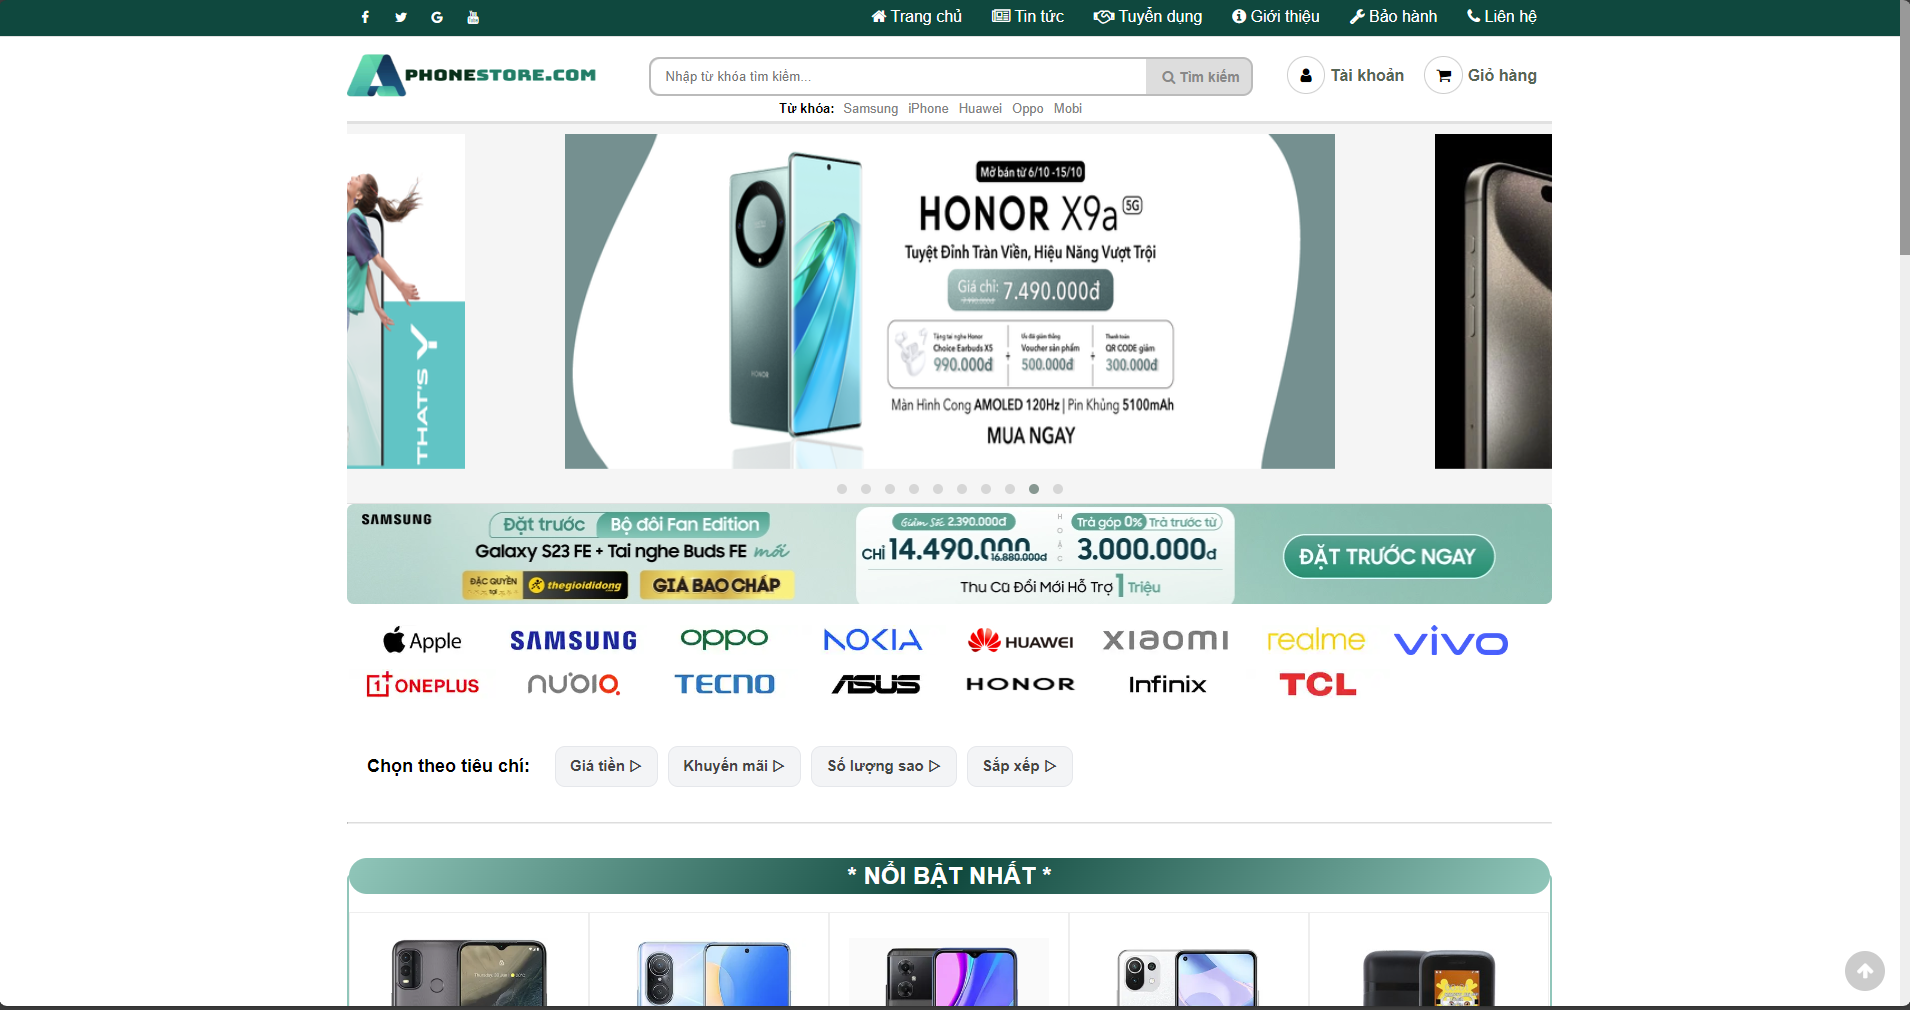
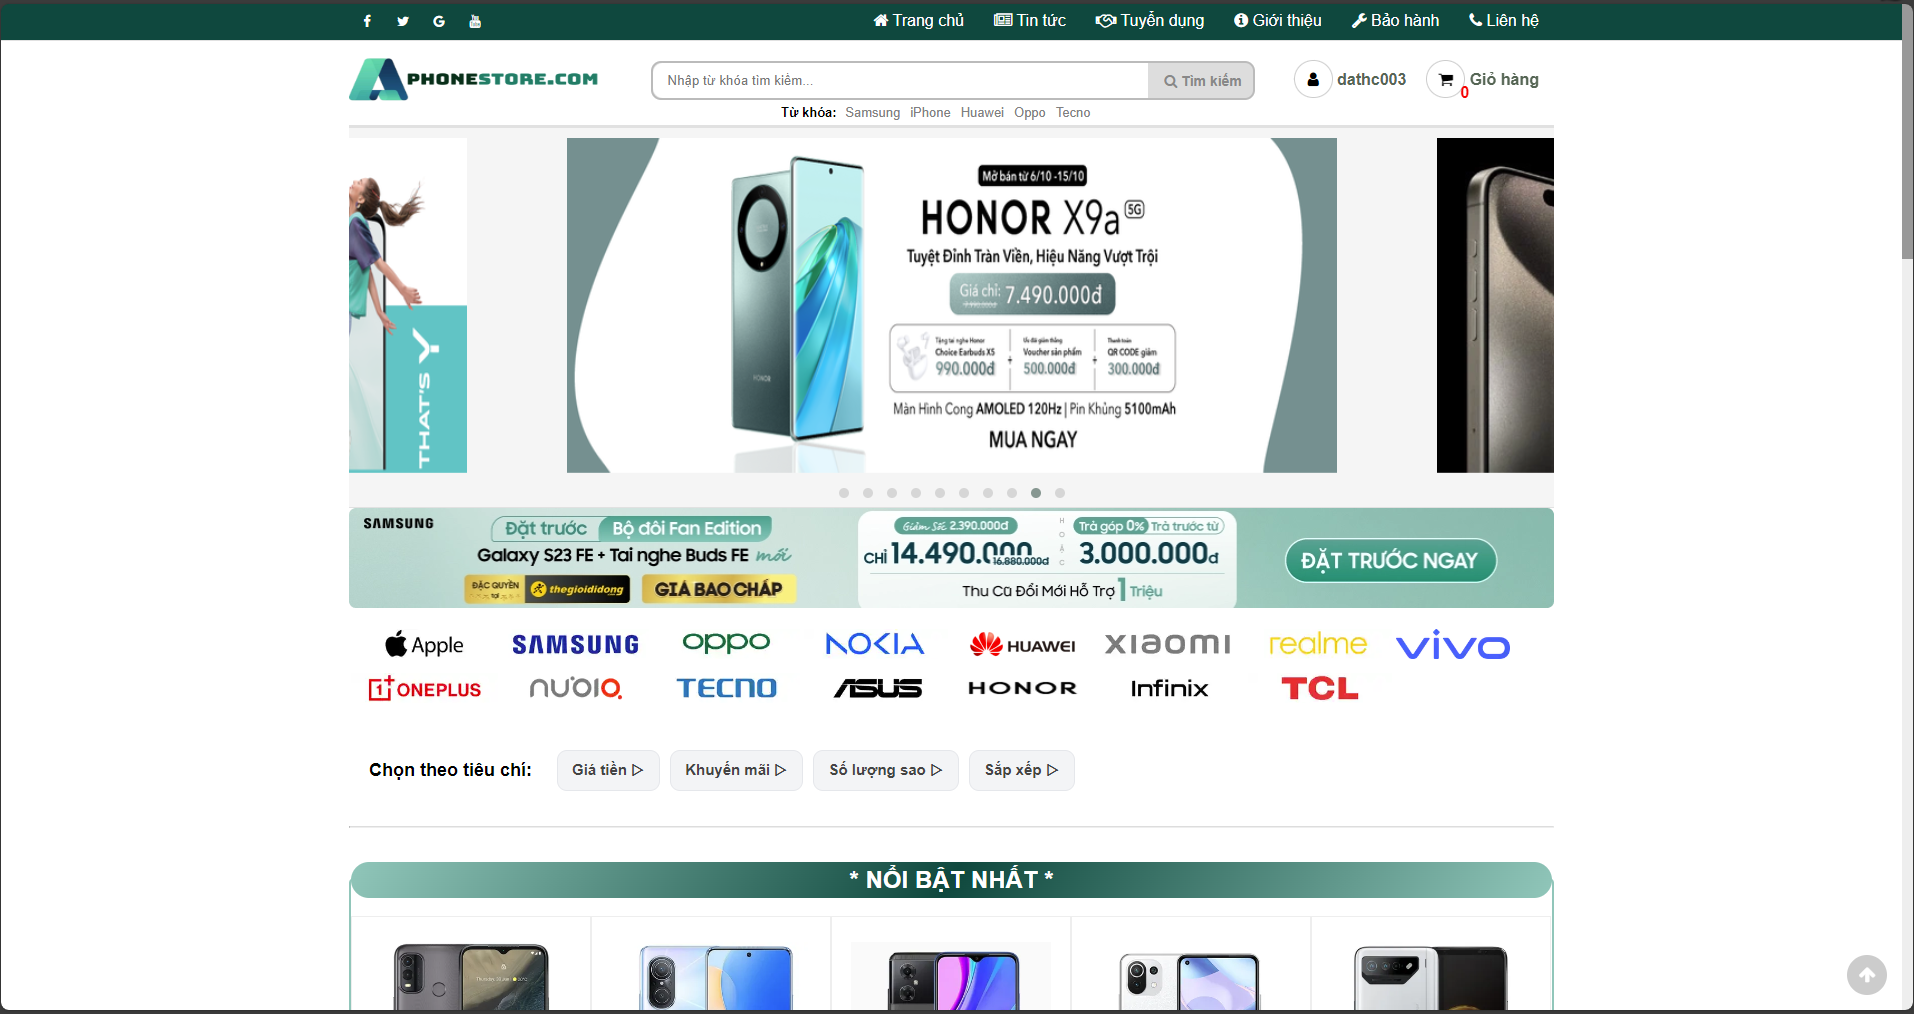
DuAn_Web

diff --git a/js/chitietsanpham.js b/js/chitietsanpham.js
@@ -6,7 +6,7 @@ window.onload = function () {
     khoiTao();
 
     // thêm tags (từ khóa) vào khung tìm kiếm
-    var tags = ["Samsung", "iPhone", "Huawei", "Oppo", "Mobi"];
+    var tags = ["Samsung", "iPhone", "Huawei", "Oppo", "Tecno"];
     for (var t of tags) addTags(t, "index.html?search=" + t, true);
 
     phanTich_URL_chiTietSanPham();
@@ -254,6 +254,6 @@ function suggestion(){
     // ====== Hiển thị 5 sản phẩm lên web ====== 
     if(sanPhamTuongTu.length) {
         let div = document.getElementById('goiYSanPham');
-        addKhungSanPham(sanPhamTuongTu, 'Bạn có thể thích', ['#434aa8', '#ec1f1f'], div);
+        addKhungSanPham(sanPhamTuongTu, 'Bạn có thể thích', ['#8BC6B9', '#00483d'], div);
     }
 }

diff --git a/js/nguoidung.js b/js/nguoidung.js
@@ -9,7 +9,7 @@ window.onload = function () {
     autocomplete(document.getElementById('search-box'), list_products);
 
     // thêm tags (từ khóa) vào khung tìm kiếm
-    var tags = ["Samsung", "iPhone", "Huawei", "Oppo", "Mobi"];
+    var tags = ["Samsung", "iPhone", "Huawei", "Oppo", "Tecno"];
     for (var t of tags) addTags(t, "index.html?search=" + t);
 
     currentUser = getCurrentUser();

diff --git a/js/trangchu.js b/js/trangchu.js
@@ -25,7 +25,7 @@ window.onload = function () {
 	autocomplete(document.getElementById('search-box'), list_products);
 
 	// thêm tags (từ khóa) vào khung tìm kiếm
-	var tags = ["Samsung", "iPhone", "Huawei", "Oppo", "Mobi"];
+	var tags = ["Samsung", "iPhone", "Huawei", "Oppo", "Tecno"];
 	for (var t of tags) addTags(t, "index.html?search=" + t);
 
 	// Thêm danh sách hãng điện thoại

diff --git a/js/giohang.js b/js/giohang.js
@@ -6,7 +6,7 @@ window.onload = function () {
 	autocomplete(document.getElementById('search-box'), list_products);
 
 	// thêm tags (từ khóa) vào khung tìm kiếm
-	var tags = ["Samsung", "iPhone", "Huawei", "Oppo", "Mobi"];
+	var tags = ["Samsung", "iPhone", "Huawei", "Oppo", "Tecno"];
 	for (var t of tags) addTags(t, "index.html?search=" + t)
 
 	currentuser = getCurrentUser();

diff --git a/gioithieu.html b/gioithieu.html
@@ -28,7 +28,7 @@
         window.onload = function () {
             khoiTao();
             // thêm tags (từ khóa) vào khung tìm kiếm
-            var tags = ["Samsung", "iPhone", "Huawei", "Oppo", "Mobi"];
+            var tags = ["Samsung", "iPhone", "Huawei", "Oppo", "Tecno"];
             for (var t of tags) addTags(t, "index.html?search=" + t);
         }
     </script>

diff --git a/tintuc.html b/tintuc.html
@@ -28,7 +28,7 @@
         window.onload = function () {
             khoiTao();
             // thêm tags (từ khóa) vào khung tìm kiếm
-            var tags = ["Samsung", "iPhone", "Huawei", "Oppo", "Mobi"];
+            var tags = ["Samsung", "iPhone", "Huawei", "Oppo", "Tecno"];
             for (var t of tags) addTags(t, "index.html?search=" + t);
         }
     </script>

diff --git a/trungtambaohanh.html b/trungtambaohanh.html
@@ -27,7 +27,7 @@
         window.onload = function () {
             khoiTao();
             // thêm tags (từ khóa) vào khung tìm kiếm
-            var tags = ["Samsung", "iPhone", "Huawei", "Oppo", "Mobi"];
+            var tags = ["Samsung", "iPhone", "Huawei", "Oppo", "Tecno"];
             for (var t of tags) addTags(t, "index.html?search=" + t);
         }
     </script>

diff --git a/tuyendung.html b/tuyendung.html
@@ -28,7 +28,7 @@
         window.onload = function () {
             khoiTao();
             // thêm tags (từ khóa) vào khung tìm kiếm
-            var tags = ["Samsung", "iPhone", "Huawei", "Oppo", "Mobi"];
+            var tags = ["Samsung", "iPhone", "Huawei", "Oppo", "Tecno"];
             for (var t of tags) addTags(t, "index.html?search=" + t);
         }
     </script>

diff --git a/js/lienhe.js b/js/lienhe.js
@@ -2,7 +2,7 @@ window.onload = function () {
     khoiTao();
 
     // thêm tags (từ khóa) vào khung tìm kiếm
-    var tags = ["Samsung", "iPhone", "Huawei", "Oppo", "Mobi"];
+    var tags = ["Samsung", "iPhone", "Huawei", "Oppo", "Tecno"];
     for (var t of tags) addTags(t, "index.html?search=" + t);
 }
 

diff --git a/css/taikhoan.css b/css/taikhoan.css
@@ -163,7 +163,7 @@
   background-image: none;
   border: 1px solid #a0b3b0;
   color: #ffffff;
-  border-radius: 0;
+  border-radius: 10px;
   transition: border-color .25s ease, box-shadow .25s ease;
 }
 
